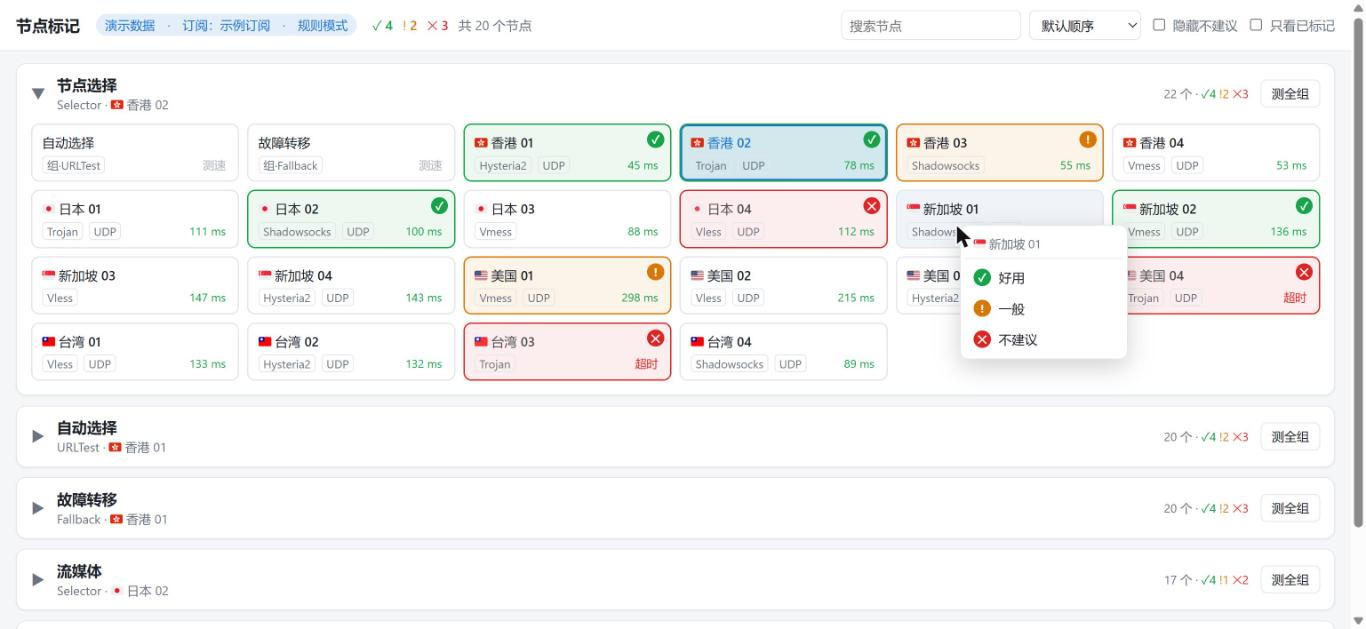
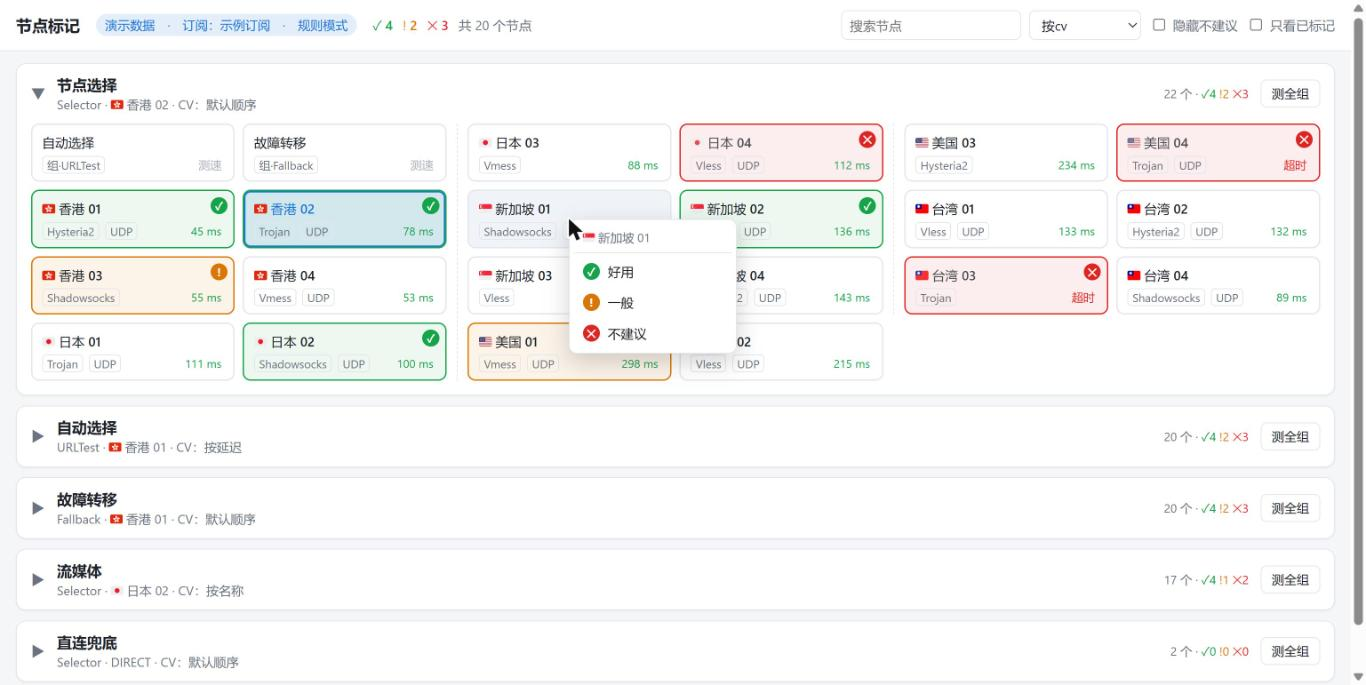
Add "按cv" sort and split each group's nodes into columns
- 按cv: each group follows the sort order set on the Clash Verge
  proxies page (default / delay / name). The order is read from
  Clash Verge's WebView2 localStorage (LevelDB + snappy), parsed
  without dependencies; Windows only, other systems fall back to
  default order.
- Delay sort matches Clash Verge's compareByDelay: measured, then
  timeout, then failed, then untested; timeout from verge.yaml.
- Inside each group, nodes are laid out in 3 columns of 2 per row,
  filling one column before the next (2 / 1 columns on narrow windows).
- Page tells you to restart the background service when it predates
  the update.
- README (zh / en) and screenshot updated.

diff --git a/nodemark.js b/nodemark.js
@@ -135,6 +135,142 @@ function currentProfile() {
   return { uid, name };
 }
 
+// ---------- 读 Clash Verge 代理页里每个组的排序方式 ----------
+// Clash Verge 把代理页每个组的界面状态存在 WebView 的 localStorage 里，键是 proxy-head-state，
+// 结构为 { <订阅 uid>: { <组名>: { sortType: 0 默认 | 1 按延迟 | 2 按名称, ... } } }。
+// Windows 上 WebView2 把 localStorage 存成 LevelDB（表文件的数据块用 snappy 压缩），这里自己解析，不引依赖。
+// 其他系统的 WebView 用的是别的存储格式，读不到时页面退回默认顺序。
+
+function varint(buf, pos) {
+  let v = 0, mul = 1, b;
+  do { b = buf[pos++]; v += (b & 0x7f) * mul; mul *= 128; } while (b & 0x80);
+  return [v, pos];
+}
+
+function snappyUncompress(src) {
+  let [len, pos] = varint(src, 0);
+  const out = Buffer.alloc(len);
+  let op = 0;
+  while (pos < src.length) {
+    const tag = src[pos++];
+    if ((tag & 3) === 0) {                     // 字面量
+      let n = tag >> 2;
+      if (n >= 60) { const k = n - 59; n = src.readUIntLE(pos, k); pos += k; }
+      n += 1;
+      src.copy(out, op, pos, pos + n); pos += n; op += n;
+      continue;
+    }
+    let n, off;                                // 回引：从已输出的数据里复制，可能和自身重叠，只能逐字节
+    if ((tag & 3) === 1) { n = ((tag >> 2) & 7) + 4; off = ((tag >> 5) << 8) | src[pos++]; }
+    else if ((tag & 3) === 2) { n = (tag >> 2) + 1; off = src.readUInt16LE(pos); pos += 2; }
+    else { n = (tag >> 2) + 1; off = src.readUInt32LE(pos); pos += 4; }
+    for (let i = 0; i < n; i++, op++) out[op] = out[op - off];
+  }
+  return out;
+}
+
+// 表文件（.ldb）里的一个块：前缀压缩的键值对 + 末尾的重启点数组
+function blockEntries(block) {
+  const end = block.length - 4 - block.readUInt32LE(block.length - 4) * 4;
+  const out = [];
+  let pos = 0, key = Buffer.alloc(0), shared, own, vlen;
+  while (pos < end) {
+    [shared, pos] = varint(block, pos); [own, pos] = varint(block, pos); [vlen, pos] = varint(block, pos);
+    key = Buffer.concat([key.subarray(0, shared), block.subarray(pos, pos + own)]); pos += own;
+    out.push([key, block.subarray(pos, pos + vlen)]); pos += vlen;
+  }
+  return out;
+}
+
+function readBlock(file, handle) {
+  const [off, p] = varint(handle, 0);
+  const [size] = varint(handle, p);
+  const raw = file.subarray(off, off + size);
+  return file[off + size] === 1 ? snappyUncompress(raw) : raw;   // 块后 1 字节压缩类型：0 不压缩，1 snappy
+}
+
+// 内部键 = 用户键 + 8 字节（序号 << 8 | 类型；类型 1 写入，0 删除）
+function tableEntries(file, visit) {
+  const footer = file.subarray(file.length - 48);
+  let p = varint(footer, varint(footer, 0)[1])[1];              // 跳过 metaindex 的位置和大小
+  for (const [, handle] of blockEntries(readBlock(file, footer.subarray(p)))) {
+    for (const [ikey, value] of blockEntries(readBlock(file, handle))) {
+      const tail = ikey.readBigUInt64LE(ikey.length - 8);
+      visit(ikey.subarray(0, ikey.length - 8), tail >> 8n, Number(tail & 0xffn) === 1 ? value : null);
+    }
+  }
+}
+
+// 日志文件（.log）：32 KB 一块，记录可能跨块拆成 FIRST / MIDDLE / LAST；每条完整记录是一个写入批次
+function logEntries(file, visit) {
+  let parts = [];
+  for (let block = 0; block < file.length; block += 32768) {
+    const end = Math.min(block + 32768, file.length);
+    for (let pos = block; pos + 7 <= end;) {
+      const len = file.readUInt16LE(pos + 4), type = file[pos + 6];
+      if (type === 0) break;
+      const data = file.subarray(pos + 7, pos + 7 + len);
+      pos += 7 + len;
+      if (type === 1 || type === 2) parts = [data]; else parts.push(data);
+      if (type !== 1 && type !== 4) continue;
+      const batch = Buffer.concat(parts);
+      let seq = batch.readBigUInt64LE(0), at = 12, klen, vlen;
+      for (let i = batch.readUInt32LE(8); i > 0; i--, seq++) {
+        const put = batch[at++] === 1;
+        [klen, at] = varint(batch, at);
+        const key = batch.subarray(at, at + klen); at += klen;
+        let value = null;
+        if (put) { [vlen, at] = varint(batch, at); value = batch.subarray(at, at + vlen); at += vlen; }
+        visit(key, seq, value);
+      }
+      parts = [];
+    }
+  }
+}
+
+// 从 LevelDB 目录里找 localStorage 某个键的最新值（Chromium 的键格式：'_' + 源 + '\0' + '\x01' + 键名）
+function readLocalStorage(dir, name) {
+  const suffix = Buffer.from(`\0\x01${name}`, 'latin1');
+  let best = { seq: -1n, value: null };
+  const visit = (key, seq, value) => {
+    if (key[0] === 0x5f && key.length > suffix.length && key.subarray(key.length - suffix.length).equals(suffix) && seq > best.seq) {
+      best = { seq, value };
+    }
+  };
+  for (const f of fs.readdirSync(dir)) {
+    if (f.endsWith('.ldb')) tableEntries(fs.readFileSync(path.join(dir, f)), visit);
+    else if (f.endsWith('.log')) logEntries(fs.readFileSync(path.join(dir, f)), visit);
+  }
+  const v = best.value;
+  if (!v || !v.length) return null;
+  return v[0] === 0 ? v.subarray(1).toString('utf16le') : v.subarray(1).toString('latin1');   // 首字节 0 = UTF-16LE，1 = Latin-1
+}
+
+let cvSortCache = { sig: '', data: null };
+
+// 返回当前订阅下 { 组名: 0 | 1 | 2 }，没设置过的组不在里面（等于默认顺序）；读不到返回 null
+function cvSortTypes(uid) {
+  const vergeDir = findVergeDir();
+  if (process.platform !== 'win32' || !vergeDir) return null;
+  const dir = path.join(process.env.LOCALAPPDATA || path.join(os.homedir(), 'AppData', 'Local'),
+    path.basename(vergeDir), 'EBWebView', 'Default', 'Local Storage', 'leveldb');
+  try {
+    // 文件没变就不重新解析
+    const sig = fs.readdirSync(dir).map((f) => { const s = fs.statSync(path.join(dir, f)); return `${f}:${s.size}:${s.mtimeMs}`; }).join('|');
+    if (sig !== cvSortCache.sig) {
+      const text = readLocalStorage(dir, 'proxy-head-state');
+      cvSortCache = { sig, data: text ? JSON.parse(text) : {} };
+    }
+  } catch {
+    // Clash Verge 正在整理 LevelDB 文件时可能读到一半，沿用上次的结果，下次再读
+    if (!cvSortCache.data) return null;
+  }
+  const groups = cvSortCache.data[uid] || {};
+  const out = {};
+  for (const [g, s] of Object.entries(groups)) if (s && [1, 2].includes(s.sortType)) out[g] = s.sortType;
+  return out;
+}
+
 // ---------- 演示模式：一个只在内存里的假内核 ----------
 
 const demo = (() => {
@@ -353,6 +489,9 @@ async function buildState() {
   return {
     demo: DEMO, profile, mode, groups, nodes,
     marks: nodeMarks,
+    // 「按cv」排序用：每个组在 Clash Verge 里的排序方式，以及它判定超时的阈值
+    cvSort: DEMO ? { '自动选择': 1, '流媒体': 2 } : cvSortTypes(profile.uid),
+    cvTimeout: DEMO ? 10000 : vergeSettings().timeout,
     realCount: realNames.size,
     removedRecent: entry ? entry.removed.slice(-20).reverse() : [],
     syncing: !synced,

diff --git a/index.html b/index.html
@@ -57,7 +57,7 @@
   }
   input[type=search] { width: 180px; }
   label.toggle { display: inline-flex; gap: 4px; align-items: center; font-size: 13px; color: var(--muted); cursor: pointer; user-select: none; }
-  main { padding: 12px 16px 40px; max-width: 1600px; margin: 0 auto; }
+  main { padding: 12px 16px 40px; max-width: 1800px; margin: 0 auto; }
 
   .group { background: var(--panel); border: 1px solid var(--line); border-radius: 10px; margin-bottom: 10px; box-shadow: var(--shadow); }
   .ghead {
@@ -74,8 +74,13 @@
   .ghead button:hover, .btn:hover { border-color: var(--primary); color: var(--primary); }
   .chev { color: var(--muted); transition: transform .15s; }
   .group.open .chev { transform: rotate(90deg); }
-  .grid { display: none; grid-template-columns: repeat(auto-fill, minmax(190px, 1fr)); gap: 8px; padding: 0 14px 14px; }
-  .group.open .grid { display: grid; }
+  /* 组内节点分栏（宽屏 3 栏），每栏一行 2 个；节点先排满第一栏再排下一栏，栏之间用竖线隔开 */
+  .grid { display: none; gap: 0; padding: 0 14px 14px; align-items: flex-start; }
+  .group.open .grid { display: flex; }
+  .ncol { flex: 1; min-width: 0; display: grid; grid-template-columns: repeat(2, minmax(0, 1fr)); gap: 8px; padding: 0 10px; }
+  .ncol:first-child { padding-left: 0; }
+  .ncol:last-child { padding-right: 0; }
+  .ncol + .ncol { border-left: 1px dashed var(--line); }
 
   .card {
     position: relative; background: var(--card); border: 1.5px solid var(--line); border-radius: 8px;
@@ -141,7 +146,6 @@
     header, main { padding-left: 16px; padding-right: 16px; }
     .tools { margin-left: 0; }
     input[type=search] { width: 140px; }
-    .grid { grid-template-columns: repeat(auto-fill, minmax(150px, 1fr)); }
   }
 </style>
 </head>
@@ -154,6 +158,7 @@
     <input type="search" id="q" placeholder="搜索节点">
     <select id="sort" title="排序">
       <option value="default">默认顺序</option>
+      <option value="cv">按cv</option>
       <option value="delay">按延迟</option>
       <option value="mark">按标记</option>
       <option value="markDelay">按标记+延迟</option>
@@ -231,6 +236,21 @@ function delayView(name, d) {
   return { cls: d < 400 ? 'd-fast' : d < 1000 ? 'd-mid' : 'd-slow', text: d + ' ms' };
 }
 
+// 和 Clash Verge 的「按延迟」一致：先分档（测出延迟 < 超时 < 失败 < 没测过），同档里只有测出延迟的按数值排。
+// 内核历史里的 0（失败）在 Clash Verge 里算 1e6，归到「失败」档
+const CV_SORT_LABEL = { 0: '默认顺序', 1: '按延迟', 2: '按名称' };
+function cvDelayRank(n) {
+  const d = state.nodes[n] && state.nodes[n].delay;
+  if (d === null || d === undefined || d < 0) return [4, 0];
+  if (d === 0 || d > 1e5) return [2, 0];
+  if (d >= state.cvTimeout) return [1, 0];
+  return [0, d];
+}
+function cvDelayCompare(a, b) {
+  const [ra, da] = cvDelayRank(a), [rb, db] = cvDelayRank(b);
+  return ra - rb || da - db;
+}
+
 function sortedMembers(g) {
   const q = $('q').value.trim().toLowerCase();
   const hideBad = $('hideBad').checked, onlyMarked = $('onlyMarked').checked;
@@ -244,12 +264,22 @@ function sortedMembers(g) {
   const sort = $('sort').value;
   const markKey = (n) => MARK_ORDER[state.marks[n] || null];
   const delayKey = (n) => { const d = state.nodes[n] && state.nodes[n].delay; return d ? d : d === 0 ? 1e9 : 1e9 + 1; };
-  if (sort === 'delay') list = [...list].sort((a, b) => delayKey(a) - delayKey(b));
+  if (sort === 'cv') {
+    const t = state.cvSort && state.cvSort[g.name];
+    if (t === 1) list = [...list].sort((a, b) => cvDelayCompare(a, b));
+    else if (t === 2) list = [...list].sort((a, b) => a.localeCompare(b));
+  }
+  else if (sort === 'delay') list = [...list].sort((a, b) => delayKey(a) - delayKey(b));
   else if (sort === 'name') list = [...list].sort((a, b) => a.localeCompare(b, 'zh'));
   else if (sort === 'mark') list = [...list].sort((a, b) => markKey(a) - markKey(b));
   else if (sort === 'markDelay') list = [...list].sort((a, b) => markKey(a) - markKey(b) || delayKey(a) - delayKey(b));
   return list;
 }
+
+// 组内节点分几栏：宽屏 3 栏，窄一些 2 栏，手机 1 栏
+const colCount = () => (innerWidth >= 1200 ? 3 : innerWidth >= 760 ? 2 : 1);
+let lastCols = colCount();
+window.addEventListener('resize', () => { if (colCount() !== lastCols) { lastCols = colCount(); if (state) render(); } });
 
 function render() {
   const s = state;
@@ -271,9 +301,14 @@ function render() {
 
   if (firstVisit) { prefs.open[s.groups[0].name] = true; firstVisit = false; savePrefs(); }
 
+  const cvMode = $('sort').value === 'cv';
+  const nCols = colCount();
   let html = '';
   for (const g of s.groups) {
     const open = !!prefs.open[g.name];
+    // cvSort 字段不存在说明后台服务还是更新前启动的旧版本（页面每次刷新都重新读，服务要重启才会更新）
+    const cvNote = !cvMode ? '' : s.cvSort ? ` · CV：${CV_SORT_LABEL[s.cvSort[g.name] || 0]}`
+      : s.cvSort === undefined ? ' · 后台服务是旧版本，重启服务后才能按cv排序' : ' · 读不到 CV 的排序，按默认顺序';
     const members = sortedMembers(g);
     const gm = { good: 0, warn: 0, bad: 0 };
     for (const n of g.all) if (s.marks[n]) gm[s.marks[n]]++;
@@ -283,14 +318,17 @@ function render() {
         <span class="chev">▶</span>
         <div class="gtitle">
           <div class="gname">${esc(g.name)}</div>
-          <div class="gsub">${esc(g.type)} · ${esc(g.now || '—')}${g.fixed ? '（已固定）' : ''}</div>
+          <div class="gsub">${esc(g.type)} · ${esc(g.now || '—')}${g.fixed ? '（已固定）' : ''}${cvNote}</div>
         </div>
         <span class="gmarks">${g.all.length} 个 · <span style="color:var(--good)">✓${gm.good}</span> <span style="color:var(--warn)">!${gm.warn}</span> <span style="color:var(--bad)">✕${gm.bad}</span></span>
         <button data-act="testGroup"${gTesting ? ' disabled' : ''}>${gTesting ? '测速中…' : '测全组'}</button>
       </div>
       <div class="grid">`;
-    if (open) {
-      for (const n of members) {
+    if (open && members.length) {
+      // 每栏 rows 行 × 2 个，按顺序先填满第一栏
+      const perCol = 2 * Math.ceil(members.length / (2 * nCols));
+      members.forEach((n, i) => {
+        if (i % perCol === 0) html += `${i ? '</div>' : ''}<div class="ncol">`;
         const node = s.nodes[n] || { type: '?' };
         const m = s.marks[n] || '';
         const sel = g.now === n;
@@ -305,8 +343,10 @@ function render() {
             <span class="delay ${dv.cls}" data-act="testNode">${dv.text}</span>
           </div>
         </div>`;
-      }
-      if (!members.length) html += `<div class="empty" style="grid-column:1/-1;padding:12px">没有符合筛选条件的节点</div>`;
+      });
+      html += '</div>';
+    } else if (open) {
+      html += `<div class="empty" style="flex:1;padding:12px">没有符合筛选条件的节点</div>`;
     }
     html += `</div></section>`;
   }

diff --git a/README.en.md b/README.en.md
@@ -18,7 +18,9 @@ It changes no Clash Verge settings and needs no patched build. It talks to the m
 - **Right-click to mark**: good / so-so / avoid / clear. Marked cards get a colored border, a tinted background and a badge in the top-right corner. Each group header shows how many nodes carry each mark.
 - **Left-click to switch**: works like clicking in Clash Verge, and Clash Verge follows the change.
 - **Delay tests**: click the delay at the bottom-right of a card to test one node, or 测全组 to test a whole group. The test URL and timeout come from your Clash Verge settings.
-- **Filter and sort**: search; sort by default order, delay, mark, mark then delay, or name; hide nodes marked avoid; show only marked nodes.
+- **Filter and sort**: search; sort by default order, CV order (按cv), delay, mark, mark then delay, or name; hide nodes marked avoid; show only marked nodes.
+- **CV order (按cv)**: each proxy group uses the sort order it has on the Clash Verge proxies page (default / by delay / by name). The group header shows which one applies (see "CV order" below).
+- **Columns inside each group**: proxy groups are stacked top to bottom, and the nodes inside each group are split into three columns with two nodes per row; nodes fill the first column before moving to the next. Narrow windows fall back to two columns, then one.
 - **Multiple subscriptions**: marks are stored per subscription, so switching subscriptions never mixes them up.
 - **Follows node changes**: each subscription's node list follows the core's live list, adding and removing nodes automatically (see "Mark data" below).
 
@@ -114,6 +116,14 @@ Clash Verge's data folder is, by default:
 | macOS | `~/Library/Application Support/io.github.clash-verge-rev.clash-verge-rev` |
 | Linux | `~/.local/share/io.github.clash-verge-rev.clash-verge-rev` |
 
+### CV order
+
+Clash Verge stores each group's sort order on its proxies page (the sort button in the group header) in the localStorage of its built-in WebView2, under the key `proxy-head-state`, separately for each subscription. This tool reads that data directly from `%LOCALAPPDATA%\io.github.clash-verge-rev.clash-verge-rev\EBWebView\Default\Local Storage\leveldb`, a LevelDB database. It only reads and never writes.
+
+- "By delay" follows the same rules as Clash Verge: measured nodes first (fastest first), then timeouts, then failures, then untested nodes. The timeout threshold comes from your Clash Verge settings.
+- After you change the sort order in Clash Verge, the WebView takes a few seconds to write it to disk, so this page may follow a few seconds later.
+- Windows only. The WebView on macOS / Linux uses a different storage format, so there 按cv shows every group in default order, and the group header says so.
+
 ### Environment variables
 
 All optional; the defaults need none of them.
@@ -141,6 +151,8 @@ With `CLASH_API` you can also point it at other clients built on the mihomo / Cl
 **The page says it can't reach the mihomo core**: Clash Verge is not running, or the core is restarting. Open Clash Verge and wait a few seconds; the page recovers on its own.
 
 **The page says the local service has stopped**: the background service exited on its own; run `node nodemark.js` again. If this happens while the page is still open, the browser's memory saving (for example Chrome's Memory Saver) has most likely frozen a tab you hadn't looked at for a while, so the service thought the page was closed. Start with `--keep` to avoid it.
+
+**With 按cv selected, group headers say the background service is outdated**: after you update the code, a page reload picks up the new page, but the background service only updates when restarted. Run `node nodemark.js stop`, then `node nodemark.js` again.
 
 **Port already in use**: pick another one with `--port`.
 

diff --git a/README.md b/README.md
@@ -16,7 +16,9 @@
 - **右键标记**：好用 / 一般 / 不建议 / 清除。标记后卡片显示对应颜色的边框、底色和右上角徽标，组标题旁显示每档数量。
 - **左键切换节点**：和在 Clash Verge 里点一样，Clash Verge 会同步变化。
 - **测延迟**：点卡片右下角测单个节点，点「测全组」测整组。测速地址和超时沿用 Clash Verge 的设置。
-- **筛选和排序**：搜索；按默认顺序 / 延迟 / 标记 / 标记+延迟 / 名称排序；隐藏不建议的节点；只看已标记的节点。
+- **筛选和排序**：搜索；按默认顺序 / cv / 延迟 / 标记 / 标记+延迟 / 名称排序；隐藏不建议的节点；只看已标记的节点。
+- **按cv**：每个代理组沿用它在 Clash Verge 代理页里的排序方式（默认 / 按延迟 / 按名称），组标题下会注明用的是哪种（见下文「按cv 排序」）。
+- **组内分栏**：代理组从上到下排列，每个组内部的节点分成三栏，每栏一行两个；节点按顺序先排满第一栏，再排下一栏。窗口变窄时自动改成两栏、一栏。
 - **多订阅**：标记按订阅分开存，切换订阅不会串。
 - **自动跟随节点变化**：每个订阅的节点清单以内核里的真实清单为准，自动增删（见下文「标记数据」）。
 
@@ -112,6 +114,14 @@ Clash Verge 的数据目录默认在：
 | macOS | `~/Library/Application Support/io.github.clash-verge-rev.clash-verge-rev` |
 | Linux | `~/.local/share/io.github.clash-verge-rev.clash-verge-rev` |
 
+### 按cv 排序
+
+Clash Verge 代理页每个组的排序方式（组标题栏里的排序按钮）存在它内置 WebView2 的 localStorage 里，键名是 `proxy-head-state`，按订阅分开记录。本工具直接读这份数据，位置在 `%LOCALAPPDATA%\io.github.clash-verge-rev.clash-verge-rev\EBWebView\Default\Local Storage\leveldb`，格式是 LevelDB。只读，不写。
+
+- 「按延迟」的规则和 Clash Verge 一样：先排测出延迟的（从小到大），再排超时的，然后是失败的，最后是没测过的。超时阈值沿用 Clash Verge 的设置。
+- 在 Clash Verge 里改了排序后，WebView 要过几秒才会写到磁盘，所以本页面可能晚几秒才跟上。
+- 只支持 Windows。macOS / Linux 上的 WebView 存储格式不同，选「按cv」时所有组都按默认顺序排，组标题下会注明。
+
 ### 环境变量
 
 都不是必需的，默认情况下不用设置。
@@ -139,6 +149,8 @@ Clash Verge 的数据目录默认在：
 **页面显示「连不上 mihomo 内核」**：Clash Verge 没开，或者内核正在重启。打开 Clash Verge 后等几秒，页面会自动恢复。
 
 **页面显示「本地服务已停止」**：后台服务已经自动退出了，重新运行一次 `node nodemark.js` 就行。如果页面没关也遇到这种情况，多半是浏览器的省内存功能（比如 Chrome 的 Memory Saver）把长时间没看的标签页冻结了，服务以为页面关掉了。不想遇到的话，用 `--keep` 启动。
+
+**选「按cv」后组标题下显示「后台服务是旧版本」**：更新代码后页面刷新就是新的，但后台服务要重启才会更新。运行 `node nodemark.js stop`，再运行一次 `node nodemark.js`。
 
 **提示端口被占用**：用 `--port` 换一个端口。
 
